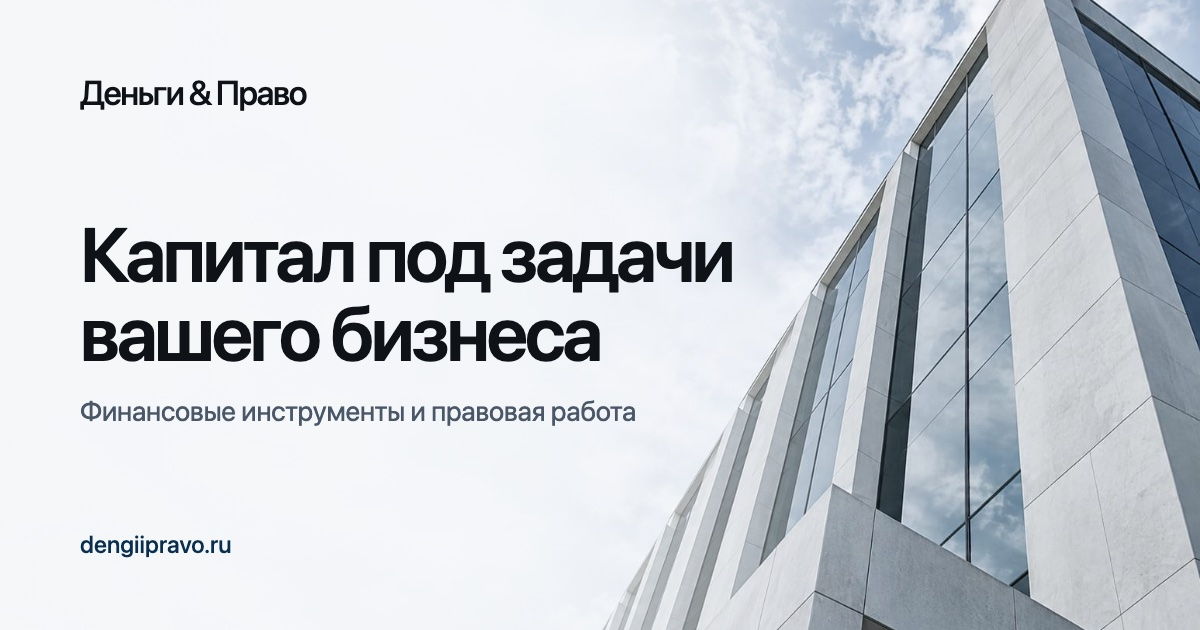
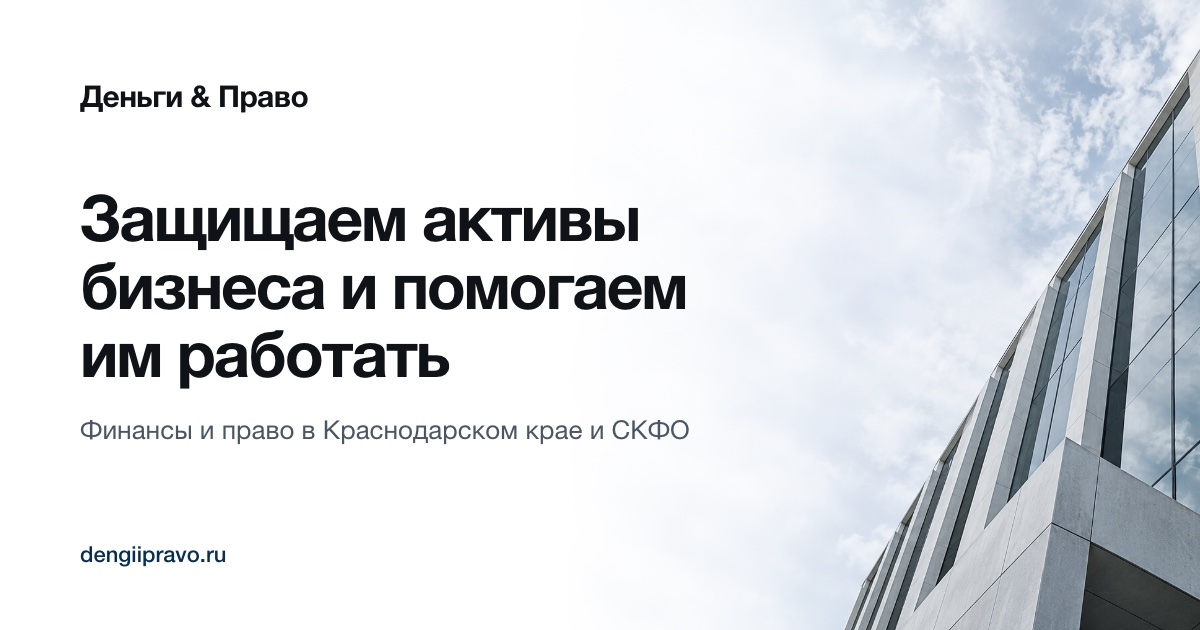
Мак: 00 Журнал, 00 Индекс, Better Chance

diff --git a/91 Исходники/site/scripts/og/og.html b/91 Исходники/site/scripts/og/og.html
@@ -1,0 +1,10 @@
+<!doctype html><html lang="ru"><meta charset="utf-8"><style>
+html,body{margin:0;width:1200px;height:630px;overflow:hidden;background:#fff;font-family:-apple-system,"SF Pro Display","Helvetica Neue",Arial,sans-serif;-webkit-font-smoothing:antialiased}
+.img{position:absolute;right:0;top:0;width:640px;height:630px;background:url(hero.png) center/cover}
+.img::after{content:"";position:absolute;inset:0;background:linear-gradient(90deg,#fff 0%,rgba(255,255,255,.6) 22%,rgba(255,255,255,0) 50%)}
+.t{position:absolute;left:80px;top:0;bottom:0;width:700px;display:flex;flex-direction:column;justify-content:center}
+.brand{position:absolute;top:78px;font-size:30px;font-weight:600;letter-spacing:-.02em;color:#0f1318}
+h1{margin:0;font-size:64px;line-height:1.06;font-weight:700;letter-spacing:-.035em;color:#0f1318}
+p{margin:26px 0 0;font-size:26px;color:#4b5664}
+.url{position:absolute;bottom:62px;font-size:22px;font-weight:500;color:#082e50}
+</style><body><div class="img"></div><div class="t"><div class="brand">Деньги &amp; Право</div><h1>Защищаем активы бизнеса и помогаем им работать</h1><p>Финансы и право в Краснодарском крае и СКФО</p><div class="url">dengiipravo.ru</div></div></body></html>

diff --git a/07 Партнёры/ФРиО — связи и алгоритм выручки.md b/07 Партнёры/ФРиО — связи и алгоритм выручки.md
@@ -1,0 +1,140 @@
+---
+type: note
+status: draft
+date: 2026-11-08
+author: Владимир
+---
+# ФРиО — связи и алгоритм выручки
+
+## Суть
+
+ФРиО ([[ФРиО]]) — не юрфирма, а отраслевая ассоциация: более 6000 ресторанов и гостиниц, 30 с лишним мероприятий в год, участие в советах при органах власти. Поэтому модель письма [[Better Chance]] («мы ваш региональный консультант, передаём друг другу клиентов») сюда не переносится. Better Chance — коллега, который может прислать дело. ФРиО — канал, через который мы выходим сразу на сотни владельцев. Выручку платят не они, а их члены, поставщики и лизинговые компании.
+
+Главные выводы:
+
+1. **У ФРиО нет юга.** Среди 20 представительств нет ни Краснодарского края, ни Сочи, ни СКФО. Это главный курортный регион страны, и именно там у нас дела. Самое сильное, что мы можем предложить, — закрыть для ФРиО этот регион, а не «сотрудничество».
+2. **Наши дела уже про их членов.** Два из пяти дел в письме Better Chance — о пансионатах на черноморском побережье (аренда земли у Росимущества), третье — о сносе апартаментов в прибрежной зоне. Для отельера это сильнее любого перечня услуг.
+3. **Сейчас лучшее время в году.** С ноября по март владелец гостиницы на побережье готовится к сезону: ему нужны деньги на ремонт и оборудование, и у него есть время на документы. Если к апрелю финансирование не получено, следующее окно откроется только осенью 2027 года.
+4. **Первые деньги придут не из судов.** Быстрее всего выручку дают лизинг и возвратный лизинг через ЛК Адама: для клиента бесплатно, вознаграждение платит лизинговая компания. Суды — самый крупный чек, но и самый долгий цикл.
+5. **Нелинейная выручка — серийность.** Когда у многих гостиниц одна и та же проблема с одним и тем же ответчиком, второе и десятое дело обходятся нам дешевле первого. ФРиО превращает разовое дело в серию.
+
+## Чем ФРиО отличается от Better Chance
+
+| | Better Chance | ФРиО |
+|---|---|---|
+| Кто это | Юрфирма, Москва, 13 практик | Ассоциация рестораторов и отельеров, Москва, 20 представительств |
+| Что им нужно | Работа на месте по делам их клиентов | Польза для членов (иначе не платят взносы), повестка для советов при власти, присутствие в регионах |
+| Кто нам платит | Клиент или сама фирма по делу | Члены ФРиО, лизинговые компании, банки (вознаграждение агенту) |
+| Как говорить | Язык юристов: local counsel, due diligence | Язык владельца: «не снесут ли», «где взять деньги к сезону», «что будет с арендой земли» |
+| Риск для нас | Конкуренция в финансах и недвижимости | Репутация и политика ассоциации, распыление на мелкие кафе |
+
+## Карта связей
+
+### Линейные (один к одному)
+
+Прямые связи, где каждая сделка — отдельная работа и выручка растёт только вместе с затраченным временем.
+
+- «Деньги и Право» ↔ ФРиО: письменное соглашение о партнёрстве (по правилу — от лица компании, с согласием на упоминание на сайте).
+- «Деньги и Право» ↔ член ФРиО: договор на услугу по прайсу.
+- «Деньги и Право» ↔ лизинговая компания: агентский договор (направление Адама, [[Лизинг и коммерческая недвижимость — стратегия]]).
+
+### Нелинейные (одно действие даёт многих клиентов или повторную выручку)
+
+- **ФРиО → 6000 членов.** Одно выступление, вебинар или рассылка доходит до сотен владельцев сразу. ФРиО переносит на нас своё доверие: рекомендация ассоциации действует сильнее нашей рекламы.
+- **Поставщики-ассоциированные члены → их покупатели.** Поставщики оборудования, кассовых систем и техники (на сайте среди партнёров — r_keeper, КофеМашиныСервис, MobiTruck и другие) продают ресторанам и гостиницам. Если поставщик, ЛК и мы договоримся о лизинге в момент продажи, каждый его клиент станет нашей сделкой без поиска клиента. Платит ЛК.
+- **Советы и рабочие группы ФРиО ↔ органы власти.** Серия одинаковых дел (например, споры пансионатов о ставке аренды земли) — готовый материал для позиции ФРиО в рабочих группах. ФРиО получает повестку, мы — известность в отрасли и следующих клиентов с той же проблемой.
+- **Прецедент → серия.** Выигранное дело для одного пансионата становится шаблоном для других с той же проблемой. Наша себестоимость падает, а цена для клиента остаётся по прайсу или пакетной.
+- **Треугольник с Better Chance.** У федеральных сетей ресторанов и отелей головной офис в Москве, а объекты на юге. Better Chance ведёт клиента, мы работаем на месте. Обратно: федеральные вопросы членов ФРиО с юга передаём Better Chance — это и есть обещанная в письме взаимность.
+- **Брокеры коммерческой недвижимости.** Гостиницы и рестораны продают и покупают через брокеров. Проверка объекта и сопровождение сделки — наша работа, брокер получает «чистый» объект и закрывает сделку быстрее ([[Коммерческая недвижимость — направление]]).
+
+### Петля, которая раскручивает сама себя
+
+Дело → обезличенный разбор для членов ФРиО (без сумм) → заявки на диагностику → новые дела → материал для рабочих групп ФРиО → вес ФРиО в отрасли → новые члены и новые заявки. Наша задача — запустить эту петлю на одном сегменте и одном регионе и не распыляться.
+
+### Связи с риском
+
+- Критическое интервью 2020 года о ФРиО (new-retail.ru) и упоминание политика на сайте в связи с Координационным советом. До соглашения понять, как ФРиО воспринимают в отрасли и у краснодарских властей, и не связывать наш бренд с политикой. #уточнить
+- Юрлицо по ЕГРЮЛ не проверено: руководитель и учредители — по выписке на egrul.nalog.ru. #уточнить
+- Если в команде есть адвокаты, делиться гонораром с ассоциацией за приведённых клиентов нельзя по правилам адвокатской этики. Платить ФРиО лучше не процентом, а взносом и участием в мероприятиях ([[Прайс услуг]], вопрос об адвокатском статусе уже открыт).
+
+## Где деньги
+
+Сегмент для пилота — **собственники гостиниц, пансионатов и баз отдыха на побережье Краснодарского края и курортах СКФО, а также рестораны со своей недвижимостью**. Небольшим кафе в аренде мы предлагаем только лизинг: юридический чек им не по карману, а на разовых консультациях мы потеряем время.
+
+| Источник | Кто платит | Наш продукт | Цикл до денег | Цена по прайсу |
+|---|---|---|---|---|
+| Лизинг оборудования, транспорта, модулей | Лизинговая компания (вознаграждение агенту) | Подбор ЛК, пакет документов | 1–2 месяца | для клиента бесплатно |
+| Возвратный лизинг здания или оборудования | ЛК + клиент | Деньги к сезону под имеющиеся активы | 2–3 месяца | ориентир 1,5 %, индивидуально |
+| Кредит, гарантия, господдержка гостиниц | Клиент, после получения денег | Подготовка пакета, переговоры с банком | 2–4 месяца | от 2 % + пакет |
+| Проверка земли и объекта | Клиент | Экспертиза объекта, приведение прав в порядок | 2–6 недель | объект от 80 тыс., компания от 200 тыс. |
+| Покупка или продажа гостиницы, ресторана | Клиент (часто вместе с брокером) | Проверка, сопровождение сделки | 1–3 месяца | под ключ от 250 тыс. + 1 % |
+| Споры: снос, прокуратура, аренда у Росимущества | Клиент | Суд до ВС РФ | 6–24 месяца | см. внутренний прайс |
+| Абонемент для сетей и крупных отелей | Клиент, ежемесячно | Юрист и финансист на сезон | постоянно | от 80 тыс. в месяц |
+
+Цены — из черновика прайса 29.10, актуальные — во внутреннем прайсе ([[Прайс услуг]]). Какие федеральные и краевые программы поддержки гостиниц действуют в 2026 году (льготные кредиты на строительство и реконструкцию, субсидии, гарантии регионального фонда), исследователь проверить не успел — до встречи проверить по официальным сайтам. #уточнить
+
+## Алгоритм
+
+Сроки — от 09.11.2026. Каждый шаг заканчивается проверкой: не прошли — не идём дальше и не тратим время.
+
+**Шаг 1. Проверить, с кем имеем дело (до 15.11).** Выписка ЕГРЮЛ; кто наш контакт в ФРиО и кто у них принимает решения; откуда знакомство и чего хочет сама ФРиО. Как ФРиО воспринимают краснодарские отельеры и власти (через знакомых, без публичных запросов).
+*Проверка:* есть человек, который принимает решения, и он готов встретиться.
+
+**Шаг 2. Собрать одно предложение под один сегмент (до 22.11).** Не письмо о компании, а одна страница «Что получат члены ФРиО на юге». Из письма Better Chance берём три дела — пансионаты и прибрежная зона — и пишем их языком владельца. Блок «финансы» — двумя строками: деньги к сезону через лизинг, возвратный лизинг и кредит. Слова local counsel и due diligence не используем.
+
+**Шаг 3. Встреча с ФРиО: предложить три вещи.**
+1. Мы — партнёр ФРиО по Краснодарскому краю и СКФО по праву и финансированию, а по возможности ведём их представительство на юге. ФРиО получает регион без своих затрат.
+2. Привилегия для членов: бесплатная «диагностика объекта перед сезоном». Членам это показывает, за что они платят взносы.
+3. Два мероприятия до сезона: вебинар для членов в январе и встреча с отельерами на побережье (Сочи или Анапа) в феврале. Дальше — Gastreet в Сочи в июне 2027 года как площадка, если ФРиО там участвует.
+
+*Проверка:* письменное соглашение от «Деньги и Право» с согласием на упоминание на сайте и дата первого мероприятия.
+
+**Шаг 4. Диагностика как вход (декабрь—февраль).** Анкета ([[Первичный опросник клиента]]) + выписка ЕГРН + договор аренды земли → заключение на одну страницу в два столбца. Слева риски объекта: снос, прибрежная защитная полоса, вид разрешённого использования, условия аренды, иски прокуратуры. Справа деньги: на что клиент может претендовать и в какие сроки. Для нас это 2–3 часа работы по шпаргалке ([[Due diligence — шпаргалка]]).
+
+**Шаг 5. Раскладка по трём направлениям.** Из каждой диагностики — одно предложение:
+- нужны деньги → Адам (лизинг, ЛК) и Михаил (кредит, гарантия, господдержка);
+- объект с рисками, но без спора → Инна, фиксированная цена за проверку и приведение прав в порядок;
+- спор или угроза спора → Инна, суд.
+КП делает бот по внутреннему прайсу. Владелец каждого направления отвечает за ответ клиенту в течение 48 часов.
+
+**Шаг 6. Серия вместо разовых дел (с весны 2027 года).** Как только у трёх и более клиентов одна и та же проблема (тот же ответчик, тот же вопрос), делаем общую правовую позицию и пакетную цену. ФРиО получает обезличенную сводку для своих рабочих групп. Здесь выручка растёт быстрее, чем затраты.
+
+**Шаг 7. Второй круг связей (параллельно с шагом 5).**
+- 2–3 поставщика из каталога ФРиО + ЛК Адама: лизинг в момент продажи оборудования.
+- Брокеры, продающие гостиницы и рестораны на юге: проверка объекта до сделки.
+- Better Chance: федеральные сети с объектами на юге — в пилотный проект, который предлагает письмо.
+
+**Шаг 8. Итоги через 90 дней (в середине февраля 2027 года).** Смотрим на цифры ниже и решаем: расширяем, меняем сегмент или выходим.
+
+## Метрики и стоп-критерии
+
+Предположение для расчёта, не факт: один вебинар — 30–50 владельцев, из них 8–12 приходят на диагностику, 2–4 становятся платными проектами. Если реальные цифры окажутся вдвое ниже, канал всё равно стоит держать. Если ниже в четыре раза — менять сегмент или формат.
+
+| Метрика | Цель к середине февраля 2027 года |
+|---|---|
+| Мероприятий с ФРиО | 2 |
+| Диагностик | 15 |
+| Платных проектов | 4, из них хотя бы 2 по финансированию |
+| Сделок с ЛК в точке продажи | 1 договорённость с поставщиком |
+| Затраты команды на диагностику | не больше 3 часов на одну |
+
+Стоп: за 60 дней после соглашения нет ни одного мероприятия, или диагностики не превращаются в платные проекты (меньше одного из десяти).
+
+## Вопросы Владимиру
+
+1. Как появилась ФРиО: кто контакт, кто был инициатором, чего они ждут от нас? От этого зависит шаг 3. #уточнить
+2. Наш фокус — юг (как в письме Better Chance) или ФРиО интересна и в Москве? #уточнить
+3. Кто в команде берёт сегмент отельеров и выдержит ли Инна поток диагностик в декабре—феврале? #уточнить
+4. Есть ли в команде адвокаты: от этого зависит, можно ли делиться с ФРиО вознаграждением. #уточнить
+5. Готовы ли вложить деньги во взнос, мероприятие на побережье или участие в Gastreet 2027? #уточнить
+
+## Связи
+- [[ФРиО]]
+- [[ФРиО — справка по открытым источникам]]
+- [[Better Chance]]
+- [[2026-11-02 Письмо Better Chance об опыте и сотрудничестве]]
+- [[Better Chance — рекомендации к финальному письму]]
+- [[Лизинг и коммерческая недвижимость — стратегия]]
+- [[Коммерческая недвижимость — направление]]
+- [[Прайс услуг]]
+- [[07 Партнёры]]

diff --git a/00 Индекс.md b/00 Индекс.md
@@ -40,6 +40,7 @@ type: index
 - [[СУДМС]] — Подрядчик Мэрии Грозного по ремонту городских дорог; участие в конференции под вопросом.
 - [[Толуб Михаил]] — Консильери «Деньги и Право».
 - [[Фазлеев]] — Технологический партнёр, ключевой спикер мероприятия в Грозном; передача клиентов за процент.
+- [[ФРиО]] — Федерация рестораторов и отельеров: отраслевая ассоциация, канал к ресторанам и гостиницам; потенциальный партнёр.
 - [[Хохлов Владимир]] — Партнёр «Деньги и Право»: технологии, ИИ, финансы.
 - [[Хохлова Яна]] — Партнёр и учредитель «Деньги и Право», идейный вдохновитель.
 - [[ЧГУ им. А.А. Кадырова]] — Чеченский государственный университет имени А.А. Кадырова, Грозный.
@@ -72,6 +73,8 @@ type: index
 - [[Партнёры]] — Пустая заметка: содержание нужно определить.
 - [[РапидаТех]] — Научно-инжиниринговая компания Ильшата Фазлеева; договор о поиске генподрядчиков для «АльтСтроя».
 - [[Фазлеев — досье]] — Подробное досье на партнёра Ильшата Фазлеева: наука, компания, договоры, роль в Грозном.
+- [[ФРиО — связи и алгоритм выручки]] — Карта связей ФРиО и пошаговый план выручки через отельеров юга: диагностика, лизинг, серийные дела.
+- [[ФРиО — справка по открытым источникам]] — Что известно о ФРиО по сайту и открытым источникам, со ссылками.
 
 ## [[08 Дизайн]]
 

diff --git a/04 Сайт/Сайт.md b/04 Сайт/Сайт.md
@@ -198,3 +198,5 @@ DNS проверен 04.11.2026: всё как было. MX `mail.dengiipravo.ru
 Открытые вопросы: телефон на сайте 8 (926) 860-49-29, а в письме — 8 (918) 335-08-38; почта на сайте прежняя (info@ ещё не принимает письма); блок «Команда» с именами, как в письме, на сайт не добавлялся #уточнить
   - [ ] Согласовать тестовую версию с коллегами и решить, публиковать ли 📅 2026-11-12 @Владимир
 
+Заголовок первого экрана (решение Владимира 08.11.2026): «Капитал под задачи вашего бизнеса» уводил позиционирование в финансирование, вместо него — **«Защищаем активы бизнеса и помогаем им работать»**: защита (право) первой, финансы — вторым планом. Картинка для ссылок `og.jpg` переделана под новый заголовок (шаблон — `site/scripts/og/og.html`, снимок Chrome 1200×630); у тестовой версии своя картинка в `/test/og.jpg`. Предложено, но пока не решено: поменять порядок «финансы и право» → «право и финансы» в плашке первого экрана, в блоке контактов и в подвале #уточнить
+

diff --git a/00 Журнал.md b/00 Журнал.md
@@ -115,3 +115,6 @@ type: log
 ## [2026-11-08] структура | Сайт: региональная версия на согласовании
 Тексты сайта адаптированы под Краснодарский край и СКФО по итогам письма Better Chance, добавлен блок о работе на месте. Опубликована только тестовая версия https://dengiipravo.ru/test/ (без индексации); рабочий сайт не менялся. Подробности — [[Сайт]].
 
+
+## [2026-11-08] ответ | ФРиО: связи и алгоритм выручки
+По просьбе Владимира изучен сайт frio.ru. Оказалось, что это не юрфирма, а Федерация рестораторов и отельеров: более 6000 членов, 20 представительств, юга среди них нет. Заведены [[ФРиО]] и [[ФРиО — справка по открытым источникам]]. В [[ФРиО — связи и алгоритм выручки]] разобраны прямые и нелинейные связи (ассоциация → члены, поставщики + ЛК, серийные дела, треугольник с Better Chance) и составлен план на 8 шагов со сроками и стоп-критериями. Пять вопросов к Владимиру.

diff --git a/91 Исходники/site/CONTENT-SOURCES.md b/91 Исходники/site/CONTENT-SOURCES.md
@@ -73,4 +73,4 @@
 - Новый блок «Работаем на месте в Краснодарском крае и СКФО» с шестью ситуациями из письма
 - Тексты кредитования, фондов (теперь «Фонды и субсидии»), сопровождения сделок, защиты владельца, споров с госорганами, земельных споров дополнены формулировками из раздела письма «Финансы и развитие бизнеса» и по нашим делам
 - Денежные суммы, имена клиентов и показатели не добавлялись
-
+- Заголовок первого экрана «Капитал под задачи вашего бизнеса» заменён на «Защищаем активы бизнеса и помогаем им работать» — решение Владимира 08.11.2026, чтобы сайт не уходил в финансирование; картинка для ссылок переделана

diff --git a/03 Люди и компании/Better Chance.md b/03 Люди и компании/Better Chance.md
@@ -34,3 +34,6 @@ contact:
 
 ### 2026-11-08 — Владимир
 Письмо для Better Chance ещё не доделано ни у Михаила, ни у Владимира: сейчас мяч у [[Толуб Михаил|Михаила]], потом у Владимира. Задачи — в минутке [[2026-10-31 Летучка — КП, РБК, прайс]].
+
+### 2026-11-08 — Claude
+Рядом появился второй потенциальный партнёр — [[ФРиО]], ассоциация рестораторов и отельеров. Письмо Better Chance для неё как шаблон не годится: ФРиО — канал к клиентам, а не коллега. Зато Better Chance входит в схему ФРиО третьей стороной: федеральные сети с объектами на юге ведут они, мы работаем на месте ([[ФРиО — связи и алгоритм выручки]]).
